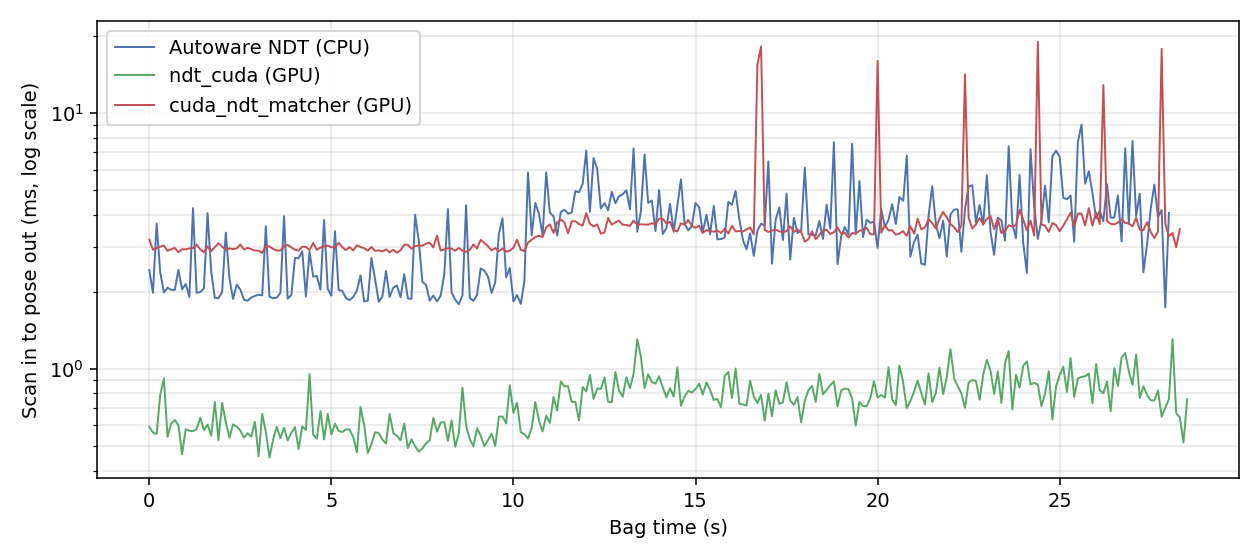
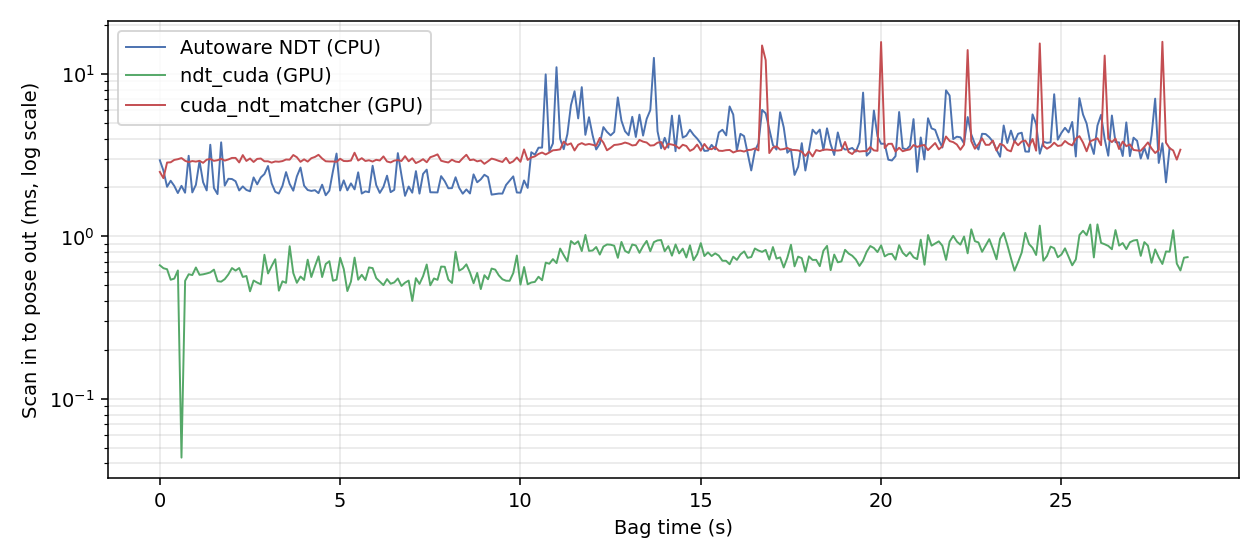
Benchmark on Autoware 2.0.0 and require Autoware 1.8.0 or later
The Autoware benchmark now runs on Autoware 2.0.0 (autoware_core 1.10.0, CUDA 12.8). The results are essentially those of Autoware 1.5.0. Update the report, figures, videos and the README, and the benchmark scripts and Dockerfiles for the 2.0.0 image.

apply.sh stops on autoware_core 1.7 and older and no longer prefixes pclomp:: twice. The comments of the integration header name the Autoware version of the NDT interface.

diff --git a/integrations/autoware/include/autoware/ndt_scan_matcher/ndt_omp/multigrid_ndt_omp.h b/integrations/autoware/include/autoware/ndt_scan_matcher/ndt_omp/multigrid_ndt_omp.h
@@ -19,10 +19,10 @@ class MultiGridNormalDistributionsTransform
 public:
   MultiGridNormalDistributionsTransform() { this->setUseAutowareCovariance(true); }
 
-  // Newer Autoware asks whether map tiles are loaded.
+  // autoware_core 1.8.0 and later ask whether map tiles are loaded.
   bool hasTarget() const { return !this->getCurrentMapIDs().empty(); }
 
-  // Newer Autoware passes the scan to align() instead of calling setInputSource().
+  // autoware_core 1.8.0 and later pass the scan to align() instead of calling setInputSource().
   using ndt_cuda::MultiGridNormalDistributionsTransformCUDA<PointSource, PointTarget>::align;
   void align(
     pcl::PointCloud<PointSource> & output, const Eigen::Matrix4f & guess,

diff --git a/docs/autoware_benchmark.md b/docs/autoware_benchmark.md
@@ -1,8 +1,10 @@
 # Autoware benchmark
 
-Measured on 2026-11-07 with ndt_cuda at commit `5f14752`; the GPU traces on 2026-11-08.
+Measured on 2026-11-08 with ndt_cuda at commit `eae21f4` plus the port to the NDT interface of Autoware 1.8.0 and later.
 
-This report runs the [rosbag replay simulation](https://docs.autoware.org/main/simulation/rosbag-replay-simulation/) of Autoware 1.5.0 with three NDT scan matchers. Autoware and the replay stay the same; only the scan matcher changes.
+Earlier versions of this report used Autoware 1.5.0. The results on Autoware 2.0.0 are essentially the same: all medians changed by less than 3%.
+
+This report runs the [rosbag replay simulation](https://docs.autoware.org/main/simulation/rosbag-replay-simulation/) of Autoware 2.0.0 with three NDT scan matchers. Autoware and the replay stay the same; only the scan matcher changes.
 
 | Name in this report | What runs |
 | --- | --- |
@@ -12,10 +14,10 @@ This report runs the [rosbag replay simulation](https://docs.autoware.org/main/s
 
 In summary, on one laptop GPU and the 30 second Autoware sample bag:
 
-- **Speed:** ndt_cuda turns a scan into a pose in 0.74 ms (median), against 3.4 ms for both Autoware NDT and cuda_ndt_matcher. Its slowest scan took 1.6 ms, against 11 ms and 23 ms.
-- **Initial pose:** the search for the initial pose took 0.56 s with ndt_cuda, 1.6 s with cuda_ndt_matcher and 3.1 s with Autoware NDT.
-- **Resources:** while tracking, ndt_cuda used 82 ms of CPU time per second of bag time, against 205 ms for Autoware NDT and 94 ms for cuda_ndt_matcher. It kept the GPU busy for 3.0 ms per second of bag time (0.3% of the GPU in real time), against 28 ms for cuda_ndt_matcher, and used 86 MiB of video memory, against 404 MiB.
-- **Results:** all three keep localized through the whole bag. Their poses differ from Autoware NDT by a median of about 4 mm. Repeated runs of Autoware NDT itself differ by up to 50 mm, because the replay is not deterministic.
+- **Speed:** ndt_cuda turns a scan into a pose in 0.74 ms (median), against 3.3 ms for Autoware NDT and 3.4 ms for cuda_ndt_matcher. Its slowest scan took 1.6 ms, against 13 ms and 20 ms.
+- **Initial pose:** the search for the initial pose took 0.55 s with ndt_cuda, 1.6 s with cuda_ndt_matcher and 3.1 s with Autoware NDT.
+- **Resources:** while tracking, ndt_cuda used 75 ms of CPU time per second of bag time, against 192 ms for Autoware NDT and 92 ms for cuda_ndt_matcher. It kept the GPU busy for 3.0 ms per second of bag time (0.3% of the GPU in real time), against 28 ms for cuda_ndt_matcher, and used 86 MiB of video memory, against 404 MiB.
+- **Results:** all three keep localized through the whole bag. Their poses differ from Autoware NDT by a median of 4–8 mm. Repeated runs of Autoware NDT itself differ by up to 80 mm, because the replay is not deterministic.
 
 ![Summary](images/autoware/summary.png)
 
@@ -25,7 +27,7 @@ The replay in RViz with each scan matcher, in real time. The corner shows the CP
 
 | Autoware NDT (CPU) | ndt_cuda (GPU) | cuda_ndt_matcher (GPU) |
 | --- | --- | --- |
-| [![Autoware NDT](https://img.youtube.com/vi/rLagbqTeKkw/hqdefault.jpg)](https://www.youtube.com/watch?v=rLagbqTeKkw) | [![ndt_cuda](https://img.youtube.com/vi/kFiMxRVmHps/hqdefault.jpg)](https://www.youtube.com/watch?v=kFiMxRVmHps) | [![cuda_ndt_matcher](https://img.youtube.com/vi/LoozwITNJkc/hqdefault.jpg)](https://www.youtube.com/watch?v=LoozwITNJkc) |
+| [![Autoware NDT](https://img.youtube.com/vi/QOUuGVEgVDo/hqdefault.jpg)](https://www.youtube.com/watch?v=QOUuGVEgVDo) | [![ndt_cuda](https://img.youtube.com/vi/3OanyXWvJuQ/hqdefault.jpg)](https://www.youtube.com/watch?v=3OanyXWvJuQ) | [![cuda_ndt_matcher](https://img.youtube.com/vi/9hYJ9cjiBDE/hqdefault.jpg)](https://www.youtube.com/watch?v=9hYJ9cjiBDE) |
 
 ## Test setup
 
@@ -33,7 +35,7 @@ The replay in RViz with each scan matcher, in real time. The corner shows the CP
 | --- | --- |
 | GPU | NVIDIA GeForce RTX 3050 Ti Laptop GPU, 4 GB, driver 595.99.02 |
 | CPU | Intel Core i7-11800H, 8 cores, 16 threads |
-| Autoware | 1.5.0, Docker image `ghcr.io/autowarefoundation/autoware:universe-devel-cuda-1.5.0` (`sha256:bca6bc89…`), ROS 2 Humble, CUDA 12.4 |
+| Autoware | 2.0.0 (`autoware_core` 1.10.0, `autoware_universe` 0.53.1), Docker image `ghcr.io/autowarefoundation/autoware:universe-devel-cuda-humble-2.0.0-amd64` (`sha256:5443f9c5…`), ROS 2 Humble, CUDA 12.8 |
 | Data | Autoware's sample map (326867 points) and sample rosbag (30 s, 3 Velodyne lidars), as in the Autoware documentation |
 | Replay | `ros2 bag play -r 0.2`, as in the Autoware documentation |
 | NDT parameters | Autoware's defaults for all three: resolution 2 m, at most 30 iterations, transformation epsilon 0.01, no line search, 200 particles for the initial pose |
@@ -51,22 +53,22 @@ All values combine the 3 runs. "Scan to pose" is the time from the scan matcher'
 | | Autoware NDT | ndt_cuda | cuda_ndt_matcher |
 | --- | --- | --- | --- |
 | Poses per run | 281 | 286 | 284 |
-| Scan to pose, median (ms) | 3.40 | **0.74** | 3.41 |
-| Scan to pose, p95 (ms) | 6.72 | **1.02** | 4.01 |
-| Scan to pose, p99 (ms) | 8.56 | **1.19** | 15.96 |
-| Scan to pose, maximum (ms) | 10.98 | **1.58** | 23.04 |
-| `exe_time_ms`, median (ms) | 3.13 | 0.50 | 3.23 |
-| Initial pose search (s) | 3.09 | **0.56** | 1.57 |
-| Iterations, mean | 2.56 | 2.53 | 2.56 |
-| Transform probability, median | 5.857 | 5.877 | 5.853 |
-| NVTL, median | 3.101 | 3.112 | 3.111 |
-| NVTL, lowest (threshold 2.3) | 2.882 | 2.870 | 2.903 |
-| CPU while tracking (ms per second of bag time) | 205 | **82** | 94 |
-| CPU peak during the initial pose search (%, 100 = one core) | 403 | 97 | 101 |
+| Scan to pose, median (ms) | 3.33 | **0.74** | 3.40 |
+| Scan to pose, p95 (ms) | 5.81 | **1.02** | 4.00 |
+| Scan to pose, p99 (ms) | 8.29 | **1.16** | 15.63 |
+| Scan to pose, maximum (ms) | 12.56 | **1.60** | 20.21 |
+| `exe_time_ms`, median (ms) | 3.08 | 0.50 | 3.23 |
+| Initial pose search (s) | 3.07 | **0.55** | 1.59 |
+| Iterations, mean | 2.56 | 2.53 | 2.58 |
+| Transform probability, median | 5.857 | 5.903 | 5.881 |
+| NVTL, median | 3.102 | 3.115 | 3.108 |
+| NVTL, lowest (threshold 2.3) | 2.873 | 2.896 | 2.879 |
+| CPU while tracking (ms per second of bag time) | 192 | **75** | 92 |
+| CPU peak during the initial pose search (%, 100 = one core) | 402 | 56 | 101 |
 | GPU while tracking (ms per second of bag time) | 0 | **3.0** | 28.4 |
-| GPU time of the initial pose search (ms) | 0 | **356** | 1333 |
+| GPU time of the initial pose search (ms) | 0 | **365** | 1335 |
 | Video memory (MiB) | 0 | 86 | 404 |
-| Resident memory (MiB) | 68 | 229 | 448 |
+| Resident memory (MiB) | 66 | 228 | 527 |
 
 The poses per run differ because ndt_cuda finds the initial pose first and so also aligns the first scans.
 
@@ -74,7 +76,7 @@ The poses per run differ because ndt_cuda finds the initial pose first and so al
 
 ### Time per scan
 
-ndt_cuda is the fastest on every scan. The steps at about 10 s are where the vehicle starts moving and the scans change. cuda_ndt_matcher has regular spikes of about 15–23 ms.
+ndt_cuda is the fastest on every scan. The steps at about 10 s are where the vehicle starts moving and the scans change. cuda_ndt_matcher has regular spikes of about 13–20 ms.
 
 ![Scan to pose time of each scan](images/autoware/latency.png)
 
@@ -86,7 +88,7 @@ The figure shows the first run of each for CPU and video memory, and the traced 
 
 The GPU use is the time the GPU spent on the kernels and copies of the scan matcher process, from a [Nsight Systems](https://developer.nvidia.com/nsight-systems) trace ([`gpu_trace.py`](../benchmark/autoware/gpu_trace.py)), averaged over 1 s. `nvidia-smi` reports whole percents and shows both GPU versions as 0 while tracking. While tracking, ndt_cuda keeps the GPU busy for about 0.3 ms per scan, which in real time is 0.3% of the GPU; cuda_ndt_matcher needs about 2.8 ms per scan, 2.8%. The step of ndt_cuda at about 60 s is where the vehicle starts moving.
 
-The trace adds a little to the time per scan: the median scan-to-pose time of the traced runs was 0.78 ms for ndt_cuda and 3.53 ms for cuda_ndt_matcher, against 0.74 ms and 3.41 ms without the trace. The other values in the table come from the runs without the trace.
+The trace adds a little to the time per scan: the median scan-to-pose time of the traced runs was 0.79 ms for ndt_cuda and 3.48 ms for cuda_ndt_matcher, against 0.74 ms and 3.40 ms without the trace. The other values in the table come from the runs without the trace.
 
 ### Agreement with Autoware NDT
 
@@ -94,11 +96,11 @@ The sample bag has no ground truth, so these values measure agreement with Autow
 
 | Run | Median (mm) | p95 (mm) | Maximum (mm) | Largest heading difference (°) |
 | --- | --- | --- | --- | --- |
-| Autoware NDT, runs 2 and 3 | 0.1–0.3 | 20.4–20.6 | 33.4–50.0 | 0.046 |
-| ndt_cuda, runs 1–3 | 4.0 | 22.0–24.8 | 37.0–53.2 | 0.040 |
-| cuda_ndt_matcher, runs 1–3 | 4.2–7.8 | 21.2–23.8 | 42.1–49.4 | 0.069 |
+| Autoware NDT, runs 2 and 3 | 0.1 | 24.7–26.7 | 47.9–80.2 | 0.038 |
+| ndt_cuda, runs 1–3 | 3.9 | 23.6–25.4 | 42.9–59.8 | 0.040 |
+| cuda_ndt_matcher, runs 1–3 | 7.8 | 22.1–24.1 | 39.9–61.0 | 0.045 |
 
-The largest differences are of the same size as those between runs of Autoware NDT itself. The replay is not deterministic: small timing differences change the initial guesses of the EKF. The median difference of about 4 mm is systematic: the GPU versions compute in single precision, and ndt_cuda also corrects the sign of one hessian term (see the [README](../README.md#differences-from-ndt_omp)).
+The largest differences are of the same size as those between runs of Autoware NDT itself. The replay is not deterministic: small timing differences change the initial guesses of the EKF. The median differences of 4 and 8 mm are systematic: the GPU versions compute in single precision.
 
 ## Notes on the comparison
 
@@ -109,7 +111,7 @@ The largest differences are of the same size as those between runs of Autoware N
 
 ## Reproducing
 
-The scripts are in [`benchmark/autoware`](../benchmark/autoware). They expect the Autoware image, the sample data under `~/projects/autoware_data` and a workspace with ndt_cuda and the patched `autoware_ndt_scan_matcher` under `~/projects/autoware_ws` (see [`integrations/autoware`](../integrations/autoware)).
+The scripts are in [`benchmark/autoware`](../benchmark/autoware). They expect the Autoware image, the sample data under `~/projects/autoware_data` and a workspace with ndt_cuda and the patched `autoware_ndt_scan_matcher` under `~/projects/autoware_ws_2.0.0` (see [`integrations/autoware`](../integrations/autoware)), and cuda_ndt_matcher built under `~/projects/cuda_ndt_matcher_2.0.0`. `AUTOWARE_IMAGE`, `AUTOWARE_WS` and `CUDA_NDT_MATCHER_DIR` change these; the header of [`run_benchmark.sh`](../benchmark/autoware/run_benchmark.sh) lists them.
 
 ```bash
 bash benchmark/autoware/run_benchmark.sh builtin run1        # Autoware NDT

diff --git a/README.md b/README.md
@@ -13,7 +13,7 @@ CUDA accelerated **Normal Distributions Transform (NDT)** point cloud registrati
 - **The additions of [tier4/ndt_omp](https://github.com/tier4/ndt_omp)** — nearest voxel transformation likelihood (NVTL), `getResult()`, regularization, and `MultiGridNormalDistributionsTransformCUDA`, whose map is made of tiles that can be added and removed while running. Results match tier4/ndt_omp to about a micrometer on the sample data.
 - **All four neighbor search methods on the GPU** — `KDTREE` (exact radius search), `DIRECT26`, `DIRECT7`, `DIRECT1`.
 - **Deterministic** — double precision reduction with a fixed reduction tree: repeated runs on the same GPU give identical results.
-- **Works in Autoware** — [`integrations/autoware`](integrations/autoware) makes Autoware's `autoware_ndt_scan_matcher` use ndt_cuda without other changes. Tested with Autoware 1.5.0: 4.6 times faster than Autoware's NDT on its sample bag (see the [Autoware benchmark](docs/autoware_benchmark.md)).
+- **Works in Autoware** — [`integrations/autoware`](integrations/autoware) makes Autoware's `autoware_ndt_scan_matcher` use ndt_cuda without other changes. Needs Autoware 1.8.0 or later; tested with Autoware 2.0.0: 4.5 times faster than Autoware's NDT on its sample bag (see the [Autoware benchmark](docs/autoware_benchmark.md)).
 - **Modern packaging** — C++17, CUDA 11.4–12.x, default architectures Turing → Hopper incl. Jetson Orin; `find_package(ndt_cuda)` + `ndt_cuda::ndt_cuda` in plain CMake and ROS 2 (Humble, Jazzy); the CUDA runtime is linked statically (only the NVIDIA driver is needed at runtime).
 - **GPU-less validation** — the test suite runs without a GPU or CUDA toolkit, so it also runs in CI.
 
@@ -198,7 +198,7 @@ These numbers come from one machine and one pair of small scans; run the benchma
 
 ### Autoware
 
-On Autoware's rosbag replay with its sample data, ndt_cuda turns a scan into a pose in 0.74 ms (median), against 3.4 ms for Autoware's own NDT. It finds the initial pose in 0.56 s instead of 3.1 s, with about the same poses and scores. See the [Autoware benchmark](docs/autoware_benchmark.md), which also compares it with cuda_ndt_matcher, and [`integrations/autoware`](integrations/autoware) for the setup.
+On the rosbag replay of Autoware 2.0.0 with its sample data, ndt_cuda turns a scan into a pose in 0.74 ms (median), against 3.3 ms for Autoware's own NDT. It finds the initial pose in 0.55 s instead of 3.1 s, with about the same poses and scores. See the [Autoware benchmark](docs/autoware_benchmark.md), which also compares it with cuda_ndt_matcher, and [`integrations/autoware`](integrations/autoware) for the setup.
 
 ## Roadmap
 

diff --git a/integrations/autoware/README.md b/integrations/autoware/README.md
@@ -1,6 +1,6 @@
 # Using ndt_cuda in Autoware
 
-`apply.sh` makes Autoware's `autoware_ndt_scan_matcher` use ndt_cuda on the GPU. The node, its topics, parameters and launch files stay the same. It was tested with Autoware 1.5.0; see the [Autoware benchmark](../../docs/autoware_benchmark.md).
+`apply.sh` makes Autoware's `autoware_ndt_scan_matcher` use ndt_cuda on the GPU. The node, its topics, parameters and launch files stay the same. It needs Autoware 1.8.0 or later (`autoware_core` 1.8.0 or later) and was tested with Autoware 2.0.0 (`autoware_core` 1.10.0); see the [Autoware benchmark](../../docs/autoware_benchmark.md). On older versions `apply.sh` stops without changing anything.
 
 ```bash
 cd ~/autoware/src
@@ -10,7 +10,7 @@ cd ~/autoware
 colcon build --packages-up-to autoware_ndt_scan_matcher --cmake-args -DCMAKE_BUILD_TYPE=Release
 ```
 
-The CUDA toolkit is needed to build ndt_cuda; the Autoware CUDA images have it under `/usr/local/cuda`, which is not always on `PATH`.
+The CUDA toolkit is needed to build ndt_cuda. The Autoware CUDA images have it, for example `ghcr.io/autowarefoundation/autoware:universe-devel-cuda-humble-2.0.0` (CUDA 12.8).
 
 ## What it changes
 
@@ -28,5 +28,5 @@ To go back to the CPU, restore the package from git (`git checkout -- .` in `aut
 
 - `ndt.num_threads` has no effect on the alignment, which runs on the GPU.
 - Map tiles are merged and uploaded to the GPU again at each map update, in Autoware's map update thread. The copy that Autoware swaps in shares the uploaded map, so the alignment does no upload.
-- The results are not bit-identical: the GPU computes in single precision, and ndt_cuda corrects the sign of one hessian term. See the README of ndt_cuda.
+- The results are not bit-identical: the GPU computes in single precision. See the README of ndt_cuda.
 - The node needs an NVIDIA GPU; without one it stops at startup.
